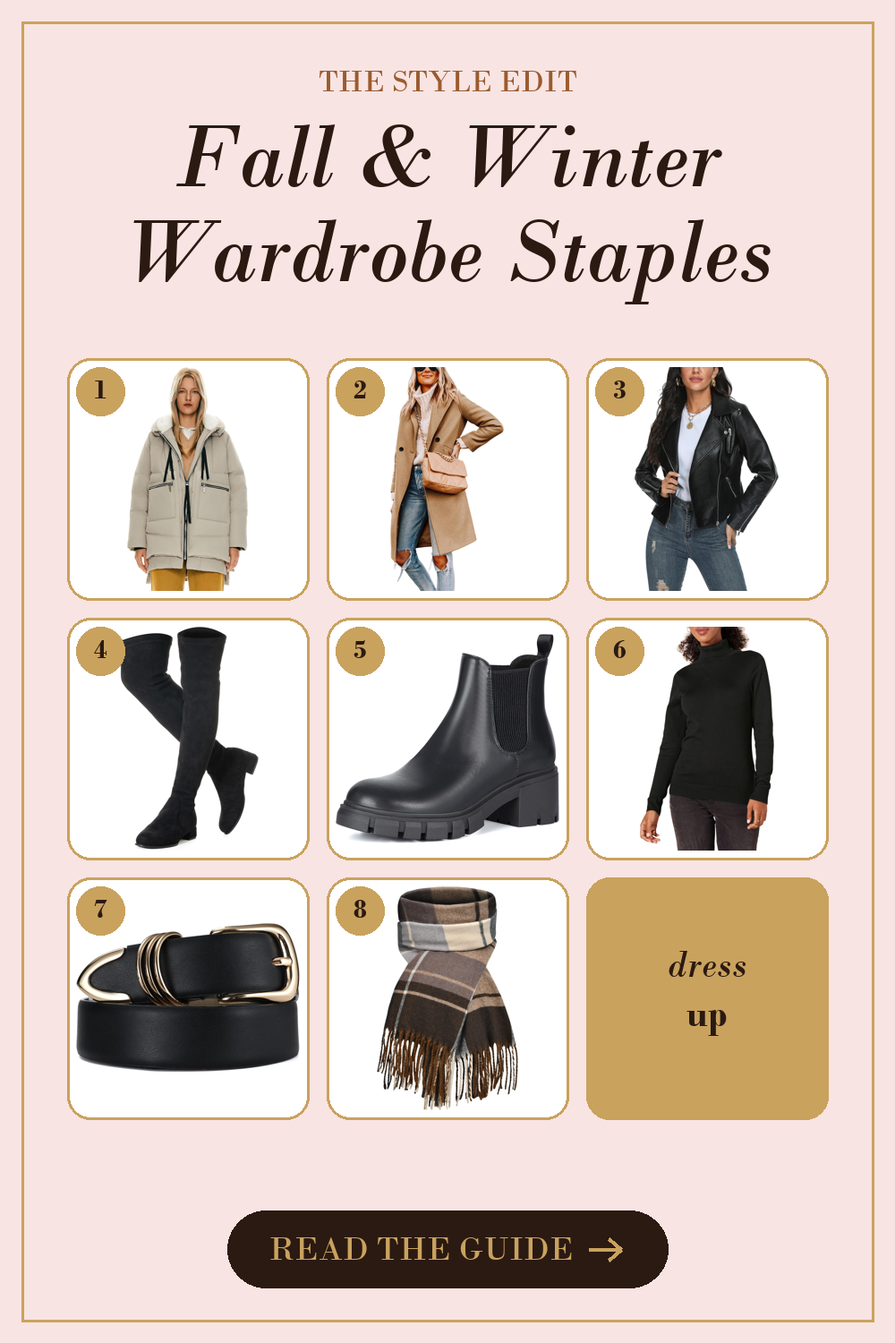
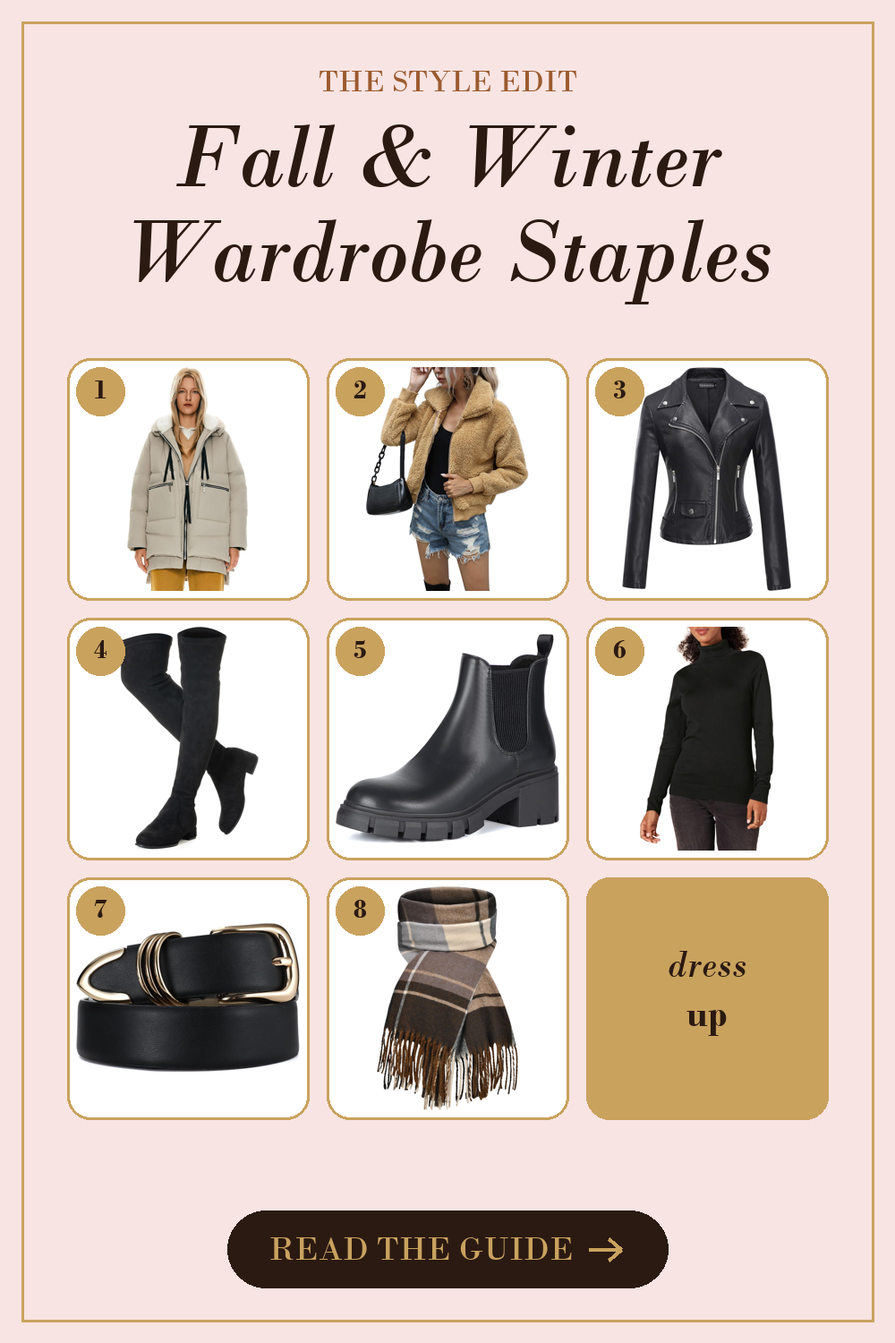
Wardrobe post: match Idea List (shearling jacket, Tanming moto), regenerate pins

Changed region(s): [[0.682, 0.276, 0.899, 0.46], [0.403, 0.276, 0.589, 0.46]]

diff --git a/blog/fall-winter-wardrobe-staples.html b/blog/fall-winter-wardrobe-staples.html
@@ -1,1 +1,1 @@
-<!doctype html><html lang="en"><head><meta name="p:domain_verify" content="d852d5229a38dea863881f54dfc11f45"/><meta charset="utf-8"><meta name="viewport" content="width=device-width,initial-scale=1"><title>Fall &amp; Winter Wardrobe Staples on Amazon: 8 Trend-Right Picks Under $130 | Looks Like Luxe</title><meta name="description" content="Fall and winter 2026 wardrobe staples on Amazon: a puffer, peacoat, faux-leather jacket, boots, a turtleneck, a gold-buckle belt and a plaid scarf. Eight picks rated 4.4 stars or higher."><link rel="canonical" href="https://lookslikeluxe.netlify.app/blog/fall-winter-wardrobe-staples.html"><meta property="og:title" content="Fall &amp; Winter Wardrobe Staples on Amazon: 8 Trend-Right Picks Under $130 | Looks Like Luxe"><meta property="og:description" content="Fall and winter 2026 wardrobe staples on Amazon: a puffer, peacoat, faux-leather jacket, boots, a turtleneck, a gold-buckle belt and a plaid scarf. Eight picks rated 4.4 stars or higher."><meta property="og:type" content="article"><meta property="og:image" content="https://lookslikeluxe.netlify.app/pins/fall-winter-wardrobe-staples-v1-grid.png"><link rel="preconnect" href="https://fonts.googleapis.com"><link rel="preconnect" href="https://fonts.gstatic.com" crossorigin><link href="https://fonts.googleapis.com/css2?family=Cormorant+Garamond:ital,wght@0,400;0,600;1,400&family=Montserrat:wght@500;600&family=Playfair+Display:ital,wght@0,500;1,500&display=swap" rel="stylesheet"><link rel="stylesheet" href="/blog.css"></head><body class="blog"><div class="b-disc">As an Amazon Associate I earn from qualifying purchases.</div><header class="b-nav"><a class="b-brand" href="/">Looks Like <em>Luxe</em></a><nav><a href="/blog/">The Edit</a><a href="/l/gifts-for-her">Gifts</a><a href="/index.html#signup">Free Guide</a></nav></header><section class="b-hero"><div class="b-kicker">The Style Edit</div><h1>Fall and Winter Wardrobe Staples From Amazon That Look Way More Expensive Than They Are</h1><div class="b-rule"></div><div class="b-by">By Looks Like Luxe &nbsp;&middot;&nbsp; October 10, 2026 &nbsp;&middot;&nbsp; 5 min read</div></section><main class="b-wrap"><div class="b-note"><strong>Affiliate disclosure:</strong> As an Amazon Associate I earn from qualifying purchases, which means if you tap a link and buy, I may earn a small commission at no extra cost to you. Prices and availability live on Amazon.</div><div class="b-intro"><p>Every fall, the internet decides which colors are in, which coats you need, and which boots you must own by Thursday. This year the mood is dark romance: burgundy, bottle green, structured coats, a little leather, a lot of texture.</p><p>The runway versions cost the price of a used car. The Amazon versions cost the price of a nice dinner. Same energy, fewer regrets.</p><p>I went through Amazon and built a capsule of eight pieces that hit the season&#x27;s trends: outerwear, boots, one good knit and the accessories that make an outfit look expensive. Every one is rated 4.4 stars or higher with thousands of reviews, though sizing varies, so read the reviews for fit.</p><p>Let&#x27;s get you dressed, darling.</p></div><div class="b-sep">&#9830; &#9830; &#9830;</div><article class="b-prod"><p class="b-num">01</p><h2>Orolay Women&#x27;s Thickened Down Jacket</h2><span class="b-best">Best for: Winter days when being warm matters more than being cute (but you&#x27;ll be both)</span><a class="b-photo" href="https://www.amazon.com/dp/B00HHOXY14?tag=lookslikeluxe-20" target="_blank" rel="sponsored nofollow noopener"><img src="/images/blog/fall-wardrobe/01-orolay-puffer.jpg" alt="Orolay Women&#x27;s Thickened Down Jacket" loading="lazy"></a><p>A thick, warm down jacket that has been a bestseller on Amazon for years, with a hood and a flattering shape.</p><p>It has a 4.5-star rating from nearly 30,000 reviewers, which is a lot of people who stayed warm.</p><p>Verdict: the coat that makes January survivable.</p><a class="b-btn" href="https://www.amazon.com/dp/B00HHOXY14?tag=lookslikeluxe-20" target="_blank" rel="sponsored nofollow noopener">Shop on Amazon</a></article><article class="b-prod"><p class="b-num">02</p><h2>Women&#x27;s Wool Coat Notch Lapel Double-Breasted Peacoat</h2><span class="b-best">Best for: The tailored, old-money look that is everywhere this season</span><a class="b-photo" href="https://www.amazon.com/dp/B0C2KDZCNT?tag=lookslikeluxe-20" target="_blank" rel="sponsored nofollow noopener"><img src="/images/blog/fall-wardrobe/02-wool-peacoat.jpg" alt="Women&#x27;s Wool Coat Notch Lapel Double-Breasted Peacoat" loading="lazy"></a><p>A double-breasted peacoat with a notched lapel, the kind of structured outerwear fashion editors keep calling a must for fall.</p><p>It rates 4.4 stars from more than 4,000 reviewers. Read the reviews on sizing.</p><p>Verdict: instantly makes jeans and a tee look intentional.</p><a class="b-btn" href="https://www.amazon.com/dp/B0C2KDZCNT?tag=lookslikeluxe-20" target="_blank" rel="sponsored nofollow noopener">Shop on Amazon</a></article><article class="b-prod"><p class="b-num">03</p><h2>Women&#x27;s Lapel Faux Leather Moto Jacket</h2><span class="b-best">Best for: Dark romance on a budget</span><a class="b-photo" href="https://www.amazon.com/dp/B08GX5K96F?tag=lookslikeluxe-20" target="_blank" rel="sponsored nofollow noopener"><img src="/images/blog/fall-wardrobe/03-faux-leather-moto.jpg" alt="Women&#x27;s Lapel Faux Leather Moto Jacket" loading="lazy"></a><p>A classic moto jacket in faux leather. Leather and moto details are all over this season&#x27;s trends.</p><p>It has a 4.4-star rating from nearly 5,000 reviewers and comes in several colors.</p><p>Verdict: throw it over a slip dress or a turtleneck and you&#x27;re done.</p><a class="b-btn" href="https://www.amazon.com/dp/B08GX5K96F?tag=lookslikeluxe-20" target="_blank" rel="sponsored nofollow noopener">Shop on Amazon</a></article><div class="b-quote"><p>&ldquo;The season&#x27;s rule: one structured piece, one textured piece, one dark color. Everything else is just styling.&rdquo;</p></div><article class="b-prod"><p class="b-num">04</p><h2>Women&#x27;s Over-the-Knee Suede Block Heel Boots</h2><span class="b-best">Best for: Skirts, dresses and a very good entrance</span><a class="b-photo" href="https://www.amazon.com/dp/B0CGX6PCV5?tag=lookslikeluxe-20" target="_blank" rel="sponsored nofollow noopener"><img src="/images/blog/fall-wardrobe/04-otk-suede-boots.jpg" alt="Women&#x27;s Over-the-Knee Suede Block Heel Boots" loading="lazy"></a><p>Over-the-knee boots with a low block heel and a soft suede look, built for walking, not just posing.</p><p>They rate 4.5 stars from more than 11,000 reviewers, a big number for a boot at this price.</p><p>Verdict: the boot that finishes every fall dress.</p><a class="b-btn" href="https://www.amazon.com/dp/B0CGX6PCV5?tag=lookslikeluxe-20" target="_blank" rel="sponsored nofollow noopener">Shop on Amazon</a></article><article class="b-prod"><p class="b-num">05</p><h2>Women&#x27;s Slip-On Chelsea Ankle Boots</h2><span class="b-best">Best for: Everyday boots that go with literally everything</span><a class="b-photo" href="https://www.amazon.com/dp/B0B2XZKB99?tag=lookslikeluxe-20" target="_blank" rel="sponsored nofollow noopener"><img src="/images/blog/fall-wardrobe/05-chelsea-boots.jpg" alt="Women&#x27;s Slip-On Chelsea Ankle Boots" loading="lazy"></a><p>A slip-on Chelsea boot, the easy, no-laces ankle style that works with jeans, trousers and skirts.</p><p>It has a 4.5-star rating from more than 5,000 reviewers.</p><p>Verdict: the boots you&#x27;ll reach for daily.</p><a class="b-btn" href="https://www.amazon.com/dp/B0B2XZKB99?tag=lookslikeluxe-20" target="_blank" rel="sponsored nofollow noopener">Shop on Amazon</a></article><article class="b-prod"><p class="b-num">06</p><h2>Amazon Essentials Women&#x27;s Long-Sleeve Turtleneck Sweater</h2><span class="b-best">Best for: The base layer under every coat on this list</span><a class="b-photo" href="https://www.amazon.com/dp/B07QGB9B9Z?tag=lookslikeluxe-20" target="_blank" rel="sponsored nofollow noopener"><img src="/images/blog/fall-wardrobe/06-turtleneck.jpg" alt="Amazon Essentials Women&#x27;s Long-Sleeve Turtleneck Sweater" loading="lazy"></a><p>A lightweight, classic-fit turtleneck that layers under blazers, coats and jackets without bulk.</p><p>It rates 4.5 stars from more than 17,000 reviewers and costs about the same as a lunch.</p><p>Verdict: buy two colors. You&#x27;ll wear them all season.</p><a class="b-btn" href="https://www.amazon.com/dp/B07QGB9B9Z?tag=lookslikeluxe-20" target="_blank" rel="sponsored nofollow noopener">Shop on Amazon</a></article><div class="b-quote"><p>&ldquo;Check the size chart on every one of these. Clothing sizes vary a lot, and reviews are your best friend.&rdquo;</p></div><article class="b-prod"><p class="b-num">07</p><h2>Women&#x27;s Leather Belt With Gold Buckle</h2><span class="b-best">Best for: Making a coat or a blazer look styled</span><a class="b-photo" href="https://www.amazon.com/dp/B0C7CHMLW6?tag=lookslikeluxe-20" target="_blank" rel="sponsored nofollow noopener"><img src="/images/blog/fall-wardrobe/07-gold-buckle-belt.jpg" alt="Women&#x27;s Leather Belt With Gold Buckle" loading="lazy"></a><p>A leather belt with a gold buckle, the kind of simple detail that sharpens a long coat or high-waisted trousers.</p><p>It has a 4.6-star rating from nearly 2,500 reviewers.</p><p>Verdict: a small accessory with a big expensive-looking payoff.</p><a class="b-btn" href="https://www.amazon.com/dp/B0C7CHMLW6?tag=lookslikeluxe-20" target="_blank" rel="sponsored nofollow noopener">Shop on Amazon</a></article><article class="b-prod"><p class="b-num">08</p><h2>Oversized Plaid Blanket Scarf</h2><span class="b-best">Best for: Plaid is back, and it costs less than a coffee run</span><a class="b-photo" href="https://www.amazon.com/dp/B0FD2CRP44?tag=lookslikeluxe-20" target="_blank" rel="sponsored nofollow noopener"><img src="/images/blog/fall-wardrobe/08-plaid-scarf.jpg" alt="Oversized Plaid Blanket Scarf" loading="lazy"></a><p>A big, soft plaid blanket scarf that doubles as a wrap on cold days. Checks and tartan are a clear trend this fall.</p><p>It rates 4.7 stars from about 340 reviewers, so it&#x27;s a smaller sample, but a very happy one.</p><p>Verdict: the cheapest way to look like you&#x27;re in a fall editorial.</p><a class="b-btn" href="https://www.amazon.com/dp/B0FD2CRP44?tag=lookslikeluxe-20" target="_blank" rel="sponsored nofollow noopener">Shop on Amazon</a></article><div class="b-sep">&#9830; &#9830; &#9830;</div><div class="b-outro"><p>And that&#x27;s the capsule: eight Amazon pieces that look like they cost far more.</p><p>If you take one thing from this guide, let it be this. A good coat, a good boot and a good belt will carry you through the whole season.</p><p>Until the next wardrobe emergency, darling.</p><div class="b-sign">xx, Looks Like Luxe</div></div><section class="b-signup"><h2>Get The Luxe Gift Vault, free</h2><p>A printable holiday gift planner plus 25 gifts that look like you spent way more, and one fun email a week. Zero spam. Zero sad candles.</p><div class="form"><iframe src="https://api.leadconnectorhq.com/widget/form/gsRUZDDIsJEpAF1ZlzP9" style="width:100%;height:100%;border:none;border-radius:8px" id="inline-gsRUZDDIsJEpAF1ZlzP9" data-layout="{'id':'INLINE'}" data-trigger-type="alwaysShow" data-trigger-value="" data-activation-type="alwaysActivated" data-activation-value="" data-deactivation-type="neverDeactivate" data-deactivation-value="" data-form-name="Gift Guide Signup Form" data-height="434" data-layout-iframe-id="inline-gsRUZDDIsJEpAF1ZlzP9" data-form-id="gsRUZDDIsJEpAF1ZlzP9" data-cookie-consent="true" data-cookie-consent-provider="auto" title="Gift Guide Signup Form"></iframe><script src="https://link.msgsndr.com/js/form_embed.js"></script></div></section><section class="b-related"><h3>Keep reading</h3><a href="/blog/dark-romantic-fall-makeup.html">Dark Romantic Fall Makeup</a><a href="/blog/perfume-layering-combos.html">Perfume Layering Combos</a><a href="/index.html#signup">The Luxe Gift Vault (free)</a></section></main><footer class="b-foot">&copy; Looks Like Luxe &middot; Rich-girl taste, real-girl budget.<br>As an Amazon Associate I earn from qualifying purchases. Prices and availability are shown on Amazon. Product names are trademarks of their owners.<br><a href="/privacy.html">Privacy &amp; disclosure</a></footer></body></html>
+<!doctype html><html lang="en"><head><meta name="p:domain_verify" content="d852d5229a38dea863881f54dfc11f45"/><meta charset="utf-8"><meta name="viewport" content="width=device-width,initial-scale=1"><title>Fall &amp; Winter Wardrobe Staples on Amazon: 8 Trend-Right Picks Under $130 | Looks Like Luxe</title><meta name="description" content="Fall and winter 2026 wardrobe staples on Amazon: a puffer, a faux shearling jacket, a faux-leather jacket, boots, a turtleneck, a gold-buckle belt and a plaid scarf. Eight picks rated 4.3 stars or higher."><link rel="canonical" href="https://lookslikeluxe.netlify.app/blog/fall-winter-wardrobe-staples.html"><meta property="og:title" content="Fall &amp; Winter Wardrobe Staples on Amazon: 8 Trend-Right Picks Under $130 | Looks Like Luxe"><meta property="og:description" content="Fall and winter 2026 wardrobe staples on Amazon: a puffer, a faux shearling jacket, a faux-leather jacket, boots, a turtleneck, a gold-buckle belt and a plaid scarf. Eight picks rated 4.3 stars or higher."><meta property="og:type" content="article"><meta property="og:image" content="https://lookslikeluxe.netlify.app/pins/fall-winter-wardrobe-staples-v1-grid.png"><link rel="preconnect" href="https://fonts.googleapis.com"><link rel="preconnect" href="https://fonts.gstatic.com" crossorigin><link href="https://fonts.googleapis.com/css2?family=Cormorant+Garamond:ital,wght@0,400;0,600;1,400&family=Montserrat:wght@500;600&family=Playfair+Display:ital,wght@0,500;1,500&display=swap" rel="stylesheet"><link rel="stylesheet" href="/blog.css"></head><body class="blog"><div class="b-disc">As an Amazon Associate I earn from qualifying purchases.</div><header class="b-nav"><a class="b-brand" href="/">Looks Like <em>Luxe</em></a><nav><a href="/blog/">The Edit</a><a href="/l/gifts-for-her">Gifts</a><a href="/index.html#signup">Free Guide</a></nav></header><section class="b-hero"><div class="b-kicker">The Style Edit</div><h1>Fall and Winter Wardrobe Staples From Amazon That Look Way More Expensive Than They Are</h1><div class="b-rule"></div><div class="b-by">By Looks Like Luxe &nbsp;&middot;&nbsp; October 10, 2026 &nbsp;&middot;&nbsp; 5 min read</div></section><main class="b-wrap"><div class="b-note"><strong>Affiliate disclosure:</strong> As an Amazon Associate I earn from qualifying purchases, which means if you tap a link and buy, I may earn a small commission at no extra cost to you. Prices and availability live on Amazon.</div><div class="b-intro"><p>Every fall, the internet decides which colors are in, which coats you need, and which boots you must own by Thursday. This year the mood is dark romance: burgundy, bottle green, structured coats, a little leather, a lot of texture.</p><p>The runway versions cost the price of a used car. The Amazon versions cost the price of a nice dinner. Same energy, fewer regrets.</p><p>I went through Amazon and built a capsule of eight pieces that hit the season&#x27;s trends: outerwear, boots, one good knit and the accessories that make an outfit look expensive. Every one is rated 4.3 stars or higher with thousands of reviews, though sizing varies, so read the reviews for fit.</p><p>Let&#x27;s get you dressed, darling.</p></div><div class="b-sep">&#9830; &#9830; &#9830;</div><article class="b-prod"><p class="b-num">01</p><h2>Orolay Women&#x27;s Thickened Down Jacket</h2><span class="b-best">Best for: Winter days when being warm matters more than being cute (but you&#x27;ll be both)</span><a class="b-photo" href="https://www.amazon.com/dp/B00HHOXY14?tag=lookslikeluxe-20" target="_blank" rel="sponsored nofollow noopener"><img src="/images/blog/fall-wardrobe/01-orolay-puffer.jpg" alt="Orolay Women&#x27;s Thickened Down Jacket" loading="lazy"></a><p>A thick, warm down jacket that has been a bestseller on Amazon for years, with a hood and a flattering shape.</p><p>It has a 4.5-star rating from nearly 30,000 reviewers, which is a lot of people who stayed warm.</p><p>Verdict: the coat that makes January survivable.</p><a class="b-btn" href="https://www.amazon.com/dp/B00HHOXY14?tag=lookslikeluxe-20" target="_blank" rel="sponsored nofollow noopener">Shop on Amazon</a></article><article class="b-prod"><p class="b-num">02</p><h2>Women&#x27;s Faux Shearling Teddy Jacket</h2><span class="b-best">Best for: Texture, the season&#x27;s biggest word</span><a class="b-photo" href="https://www.amazon.com/dp/B07WPZ4DTG?tag=lookslikeluxe-20" target="_blank" rel="sponsored nofollow noopener"><img src="/images/blog/fall-wardrobe/02-faux-shearling-jacket.jpg" alt="Women&#x27;s Faux Shearling Teddy Jacket" loading="lazy"></a><p>A fluffy faux shearling jacket with pockets and a zip front. Shearling and fuzzy textures are all over this season&#x27;s trend reports.</p><p>It has a 4.4-star rating from more than 1,400 reviewers, at a price that&#x27;s easy on the wallet.</p><p>Verdict: the cozy, cropped layer that turns jeans and boots into an outfit.</p><a class="b-btn" href="https://www.amazon.com/dp/B07WPZ4DTG?tag=lookslikeluxe-20" target="_blank" rel="sponsored nofollow noopener">Shop on Amazon</a></article><article class="b-prod"><p class="b-num">03</p><h2>Tanming Women&#x27;s Faux Leather Moto Jacket</h2><span class="b-best">Best for: Dark romance on a budget</span><a class="b-photo" href="https://www.amazon.com/dp/B01DXANRTE?tag=lookslikeluxe-20" target="_blank" rel="sponsored nofollow noopener"><img src="/images/blog/fall-wardrobe/03-faux-leather-moto.jpg" alt="Tanming Women&#x27;s Faux Leather Moto Jacket" loading="lazy"></a><p>A classic moto jacket in faux leather. Leather and moto details are all over this season&#x27;s trends.</p><p>It has a 4.3-star rating from more than 10,000 reviewers, a big sample for a jacket at this price. Check the size chart.</p><p>Verdict: throw it over a slip dress or a turtleneck and you&#x27;re done.</p><a class="b-btn" href="https://www.amazon.com/dp/B01DXANRTE?tag=lookslikeluxe-20" target="_blank" rel="sponsored nofollow noopener">Shop on Amazon</a></article><div class="b-quote"><p>&ldquo;The season&#x27;s rule: one structured piece, one textured piece, one dark color. Everything else is just styling.&rdquo;</p></div><article class="b-prod"><p class="b-num">04</p><h2>Women&#x27;s Over-the-Knee Suede Block Heel Boots</h2><span class="b-best">Best for: Skirts, dresses and a very good entrance</span><a class="b-photo" href="https://www.amazon.com/dp/B0CGX6PCV5?tag=lookslikeluxe-20" target="_blank" rel="sponsored nofollow noopener"><img src="/images/blog/fall-wardrobe/04-otk-suede-boots.jpg" alt="Women&#x27;s Over-the-Knee Suede Block Heel Boots" loading="lazy"></a><p>Over-the-knee boots with a low block heel and a soft suede look, built for walking, not just posing.</p><p>They rate 4.5 stars from more than 11,000 reviewers, a big number for a boot at this price.</p><p>Verdict: the boot that finishes every fall dress.</p><a class="b-btn" href="https://www.amazon.com/dp/B0CGX6PCV5?tag=lookslikeluxe-20" target="_blank" rel="sponsored nofollow noopener">Shop on Amazon</a></article><article class="b-prod"><p class="b-num">05</p><h2>Women&#x27;s Slip-On Chelsea Ankle Boots</h2><span class="b-best">Best for: Everyday boots that go with literally everything</span><a class="b-photo" href="https://www.amazon.com/dp/B0B2XZKB99?tag=lookslikeluxe-20" target="_blank" rel="sponsored nofollow noopener"><img src="/images/blog/fall-wardrobe/05-chelsea-boots.jpg" alt="Women&#x27;s Slip-On Chelsea Ankle Boots" loading="lazy"></a><p>A slip-on Chelsea boot, the easy, no-laces ankle style that works with jeans, trousers and skirts.</p><p>It has a 4.5-star rating from more than 5,000 reviewers.</p><p>Verdict: the boots you&#x27;ll reach for daily.</p><a class="b-btn" href="https://www.amazon.com/dp/B0B2XZKB99?tag=lookslikeluxe-20" target="_blank" rel="sponsored nofollow noopener">Shop on Amazon</a></article><article class="b-prod"><p class="b-num">06</p><h2>Amazon Essentials Women&#x27;s Long-Sleeve Turtleneck Sweater</h2><span class="b-best">Best for: The base layer under every coat on this list</span><a class="b-photo" href="https://www.amazon.com/dp/B07QGB9B9Z?tag=lookslikeluxe-20" target="_blank" rel="sponsored nofollow noopener"><img src="/images/blog/fall-wardrobe/06-turtleneck.jpg" alt="Amazon Essentials Women&#x27;s Long-Sleeve Turtleneck Sweater" loading="lazy"></a><p>A lightweight, classic-fit turtleneck that layers under blazers, coats and jackets without bulk.</p><p>It rates 4.5 stars from more than 17,000 reviewers and costs about the same as a lunch.</p><p>Verdict: buy two colors. You&#x27;ll wear them all season.</p><a class="b-btn" href="https://www.amazon.com/dp/B07QGB9B9Z?tag=lookslikeluxe-20" target="_blank" rel="sponsored nofollow noopener">Shop on Amazon</a></article><div class="b-quote"><p>&ldquo;Check the size chart on every one of these. Clothing sizes vary a lot, and reviews are your best friend.&rdquo;</p></div><article class="b-prod"><p class="b-num">07</p><h2>Women&#x27;s Leather Belt With Gold Buckle</h2><span class="b-best">Best for: Making a coat or a blazer look styled</span><a class="b-photo" href="https://www.amazon.com/dp/B0C7CHMLW6?tag=lookslikeluxe-20" target="_blank" rel="sponsored nofollow noopener"><img src="/images/blog/fall-wardrobe/07-gold-buckle-belt.jpg" alt="Women&#x27;s Leather Belt With Gold Buckle" loading="lazy"></a><p>A leather belt with a gold buckle, the kind of simple detail that sharpens a long coat or high-waisted trousers.</p><p>It has a 4.6-star rating from nearly 2,500 reviewers.</p><p>Verdict: a small accessory with a big expensive-looking payoff.</p><a class="b-btn" href="https://www.amazon.com/dp/B0C7CHMLW6?tag=lookslikeluxe-20" target="_blank" rel="sponsored nofollow noopener">Shop on Amazon</a></article><article class="b-prod"><p class="b-num">08</p><h2>Oversized Plaid Blanket Scarf</h2><span class="b-best">Best for: Plaid is back, and it costs less than a coffee run</span><a class="b-photo" href="https://www.amazon.com/dp/B0FD2CRP44?tag=lookslikeluxe-20" target="_blank" rel="sponsored nofollow noopener"><img src="/images/blog/fall-wardrobe/08-plaid-scarf.jpg" alt="Oversized Plaid Blanket Scarf" loading="lazy"></a><p>A big, soft plaid blanket scarf that doubles as a wrap on cold days. Checks and tartan are a clear trend this fall.</p><p>It rates 4.7 stars from about 340 reviewers, so it&#x27;s a smaller sample, but a very happy one.</p><p>Verdict: the cheapest way to look like you&#x27;re in a fall editorial.</p><a class="b-btn" href="https://www.amazon.com/dp/B0FD2CRP44?tag=lookslikeluxe-20" target="_blank" rel="sponsored nofollow noopener">Shop on Amazon</a></article><div class="b-sep">&#9830; &#9830; &#9830;</div><div class="b-outro"><p>And that&#x27;s the capsule: eight Amazon pieces that look like they cost far more.</p><p>If you take one thing from this guide, let it be this. A good coat, a good boot and a good belt will carry you through the whole season.</p><p>Until the next wardrobe emergency, darling.</p><div class="b-sign">xx, Looks Like Luxe</div></div><section class="b-signup"><h2>Get The Luxe Gift Vault, free</h2><p>A printable holiday gift planner plus 25 gifts that look like you spent way more, and one fun email a week. Zero spam. Zero sad candles.</p><div class="form"><iframe src="https://api.leadconnectorhq.com/widget/form/gsRUZDDIsJEpAF1ZlzP9" style="width:100%;height:100%;border:none;border-radius:8px" id="inline-gsRUZDDIsJEpAF1ZlzP9" data-layout="{'id':'INLINE'}" data-trigger-type="alwaysShow" data-trigger-value="" data-activation-type="alwaysActivated" data-activation-value="" data-deactivation-type="neverDeactivate" data-deactivation-value="" data-form-name="Gift Guide Signup Form" data-height="434" data-layout-iframe-id="inline-gsRUZDDIsJEpAF1ZlzP9" data-form-id="gsRUZDDIsJEpAF1ZlzP9" data-cookie-consent="true" data-cookie-consent-provider="auto" title="Gift Guide Signup Form"></iframe><script src="https://link.msgsndr.com/js/form_embed.js"></script></div></section><section class="b-related"><h3>Keep reading</h3><a href="/blog/dark-romantic-fall-makeup.html">Dark Romantic Fall Makeup</a><a href="/blog/perfume-layering-combos.html">Perfume Layering Combos</a><a href="/index.html#signup">The Luxe Gift Vault (free)</a></section></main><footer class="b-foot">&copy; Looks Like Luxe &middot; Rich-girl taste, real-girl budget.<br>As an Amazon Associate I earn from qualifying purchases. Prices and availability are shown on Amazon. Product names are trademarks of their owners.<br><a href="/privacy.html">Privacy &amp; disclosure</a></footer></body></html>

diff --git a/blog/index.html b/blog/index.html
@@ -1,1 +1,1 @@
-<!doctype html><html lang="en"><head><meta name="p:domain_verify" content="d852d5229a38dea863881f54dfc11f45"/><meta charset="utf-8"><meta name="viewport" content="width=device-width,initial-scale=1"><title>The Edit | Looks Like Luxe</title><meta name="description" content="Gift guides, room refreshes and luxe-looking finds, curated with drama and a budget."><link rel="canonical" href="https://lookslikeluxe.netlify.app/blog/"><meta property="og:title" content="The Edit | Looks Like Luxe"><meta property="og:description" content="Gift guides, room refreshes and luxe-looking finds, curated with drama and a budget."><meta property="og:type" content="article"><link rel="preconnect" href="https://fonts.googleapis.com"><link rel="preconnect" href="https://fonts.gstatic.com" crossorigin><link href="https://fonts.googleapis.com/css2?family=Cormorant+Garamond:ital,wght@0,400;0,600;1,400&family=Montserrat:wght@500;600&family=Playfair+Display:ital,wght@0,500;1,500&display=swap" rel="stylesheet"><link rel="stylesheet" href="/blog.css"></head><body class="blog"><div class="b-disc">As an Amazon Associate I earn from qualifying purchases.</div><header class="b-nav"><a class="b-brand" href="/">Looks Like <em>Luxe</em></a><nav><a href="/blog/">The Edit</a><a href="/l/gifts-for-her">Gifts</a><a href="/index.html#signup">Free Guide</a></nav></header><section class="b-hero"><div class="b-kicker">The Edit</div><h1>Looks like luxe. Isn't.</h1><div class="b-rule"></div><div class="b-by">Gift guides, room refreshes, and finds with a flair for the dramatic</div></section><div class="bi-grid"><a class="bi-card" href="/blog/amazon-christmas-decor.html"><div class="im"><img src="/images/blog/christmas-decor/01-tree.jpg" alt="Amazon Christmas Decor" loading="lazy"></div><div class="tx"><div class="k">The Holiday Edit</div><h2>Amazon Christmas Decor That Looks Designer (Burgundy, Gold and Zero Regrets)</h2><p>Amazon Christmas decor that looks designer: a pre-lit tree, nutcrackers, gold mercury ornaments, velvet bows and more. Eight festive finds with great reviews.</p></div></a><a class="bi-card" href="/blog/clean-girl-gift-guide.html"><div class="im"><img src="/images/blog/clean-girl/01-revlon.jpg" alt="Clean Girl Gift Guide" loading="lazy"></div><div class="tx"><div class="k">The Gift Edit</div><h2>The Clean Girl Gift Guide (For the Girl Who Wakes Up Like This)</h2><p>A clean girl gift guide for the glowy, gold-hoop, matcha-sipping girl on your list: skincare, lip mask, hair oil, and the finishing touches. Aesthetic, giftable, and chic.</p></div></a><a class="bi-card" href="/blog/dark-romantic-fall-makeup.html"><div class="im"><img src="/images/blog/fall-makeup/01-rare-beauty-blush.jpg" alt="Dark Romantic Fall Makeup" loading="lazy"></div><div class="tx"><div class="k">The Beauty Edit</div><h2>Dark Romantic Fall Makeup: Cream Blush, Berry Lips and a Little Drama</h2><p>Dark romantic makeup for fall 2026: cream blush, moody lips, a long-wear setting spray and black nail polish, all on Amazon with 4.4+ star ratings.</p></div></a><a class="bi-card" href="/blog/fall-winter-wardrobe-staples.html"><div class="im"><img src="/images/blog/fall-wardrobe/01-orolay-puffer.jpg" alt="Fall and Winter Wardrobe Staples" loading="lazy"></div><div class="tx"><div class="k">The Style Edit</div><h2>Fall and Winter Wardrobe Staples From Amazon That Look Way More Expensive Than They Are</h2><p>Fall and winter 2026 wardrobe staples on Amazon: a puffer, peacoat, faux-leather jacket, boots, a turtleneck, a gold-buckle belt and a plaid scarf. Eight picks rated 4.4 stars or higher.</p></div></a><a class="bi-card" href="/blog/gifts-for-5-year-old-girls.html"><div class="im"><img src="/images/blog/gifts-5yo/01-mixies.jpg" alt="Gifts for 5-Year-Old Girls" loading="lazy"></div><div class="tx"><div class="k">The Gift Edit</div><h2>Gifts for 5-Year-Old Girls: Wait, They Make THIS?!</h2><p>Gifts for 5-year-old girls that make even grown women say &#x27;wait, they make this?!&#x27; Eight unusual, show-stopping ideas, ranked with sarcasm and zero crayons.</p></div></a><a class="bi-card" href="/blog/gifts-for-8-10-year-old-girls.html"><div class="im"><img src="/images/blog/gifts-8-10/01-american-girl.jpg" alt="Gifts for 8-10 Year Old Girls" loading="lazy"></div><div class="tx"><div class="k">The Gift Edit</div><h2>Gifts for 8-10 Year Old Girls (She Is Not a Baby, Thank You)</h2><p>Gifts for 8 to 10 year old girls that are anything but babyish: an instant camera, a Tamagotchi, a Stanley, a doll with a whole personality, and more.</p></div></a><a class="bi-card" href="/blog/gifts-for-mom.html"><div class="im"><img src="/images/blog/gifts-mom/01-revlon.jpg" alt="Christmas Gifts for Mom" loading="lazy"></div><div class="tx"><div class="k">The Gift Edit</div><h2>Christmas Gifts for Mom (She Said &quot;Don&#x27;t Get Me Anything.&quot; She Lied.)</h2><p>Amazon Christmas gifts for mom that go way beyond a candle: a hair styler she&#x27;ll use daily, a digital frame, a smart herb garden, a Ninja Creami and more. Eight picks with great reviews.</p></div></a><a class="bi-card" href="/blog/gifts-for-women-in-their-20s.html"><div class="im"><img src="/images/blog/gifts-20s/01-barefoot-dreams.jpg" alt="Gifts for Women in Their 20s" loading="lazy"></div><div class="tx"><div class="k">The Gift Edit</div><h2>Gifts for Women in Their 20s (Who Say &quot;I Don&#x27;t Need Anything&quot; and Absolutely Do)</h2><p>Gifts for women in their 20s that feel like a treat: a cloud-soft throw, an instant camera, a sunrise alarm, a Kindle, and more. Chic, useful, and not another candle.</p></div></a><a class="bi-card" href="/blog/hair-scalp-care.html"><div class="im"><img src="/images/blog/hair-scalp/06-heeta-scalp-massager.jpg" alt="Best Hair Care Products on Amazon" loading="lazy"></div><div class="tx"><div class="k">The Beauty Edit</div><h2>Best Hair Care Products on Amazon: Scalp Care, Shine and Repair</h2><p>The best hair care products on Amazon for fall 2026: scalp massagers, shine oils, bond repair and a blowout tool, all rated 4.5 stars or higher.</p></div></a><a class="bi-card" href="/blog/host-hostess-gifts.html"><div class="im"><img src="/images/blog/host-hostess/01-bartender-kit.jpg" alt="Host &amp; Hostess Gifts" loading="lazy"></div><div class="tx"><div class="k">The Gift Edit</div><h2>Host &amp; Hostess Gifts (Because Wine Is Not a Personality, Darling)</h2><p>Host and hostess gifts that go way beyond a bottle of wine: a champagne saber, a cocktail smoker, a truffle oil duo, a bitters trio and more. Elegant, giftable and not another candle.</p></div></a><a class="bi-card" href="/blog/perfume-layering-combos.html"><div class="im"><img src="/images/blog/perfume-layering/01-ariana-cloud.jpg" alt="Perfume Layering Combos" loading="lazy"></div><div class="tx"><div class="k">The Beauty Edit</div><h2>Perfume Layering Combos: 8 Scents That Smell Expensive Together (Yes, You Can Mix Them)</h2><p>Perfume layering combos for fall: warm vanilla, gourmand and floral scents from Amazon, plus a body cream and mist to stack them on. Eight picks with 4.4+ star ratings.</p></div></a><a class="bi-card" href="/blog/teacher-gifts.html"><div class="im"><img src="/images/blog/gifts-teacher/01-yeti.jpg" alt="Teacher Gifts" loading="lazy"></div><div class="tx"><div class="k">The Gift Edit</div><h2>Teacher Gifts That Aren&#x27;t Mugs (Because She Has Fourteen)</h2><p>Teacher gifts that aren&#x27;t mugs: a YETI tumbler, UGG slippers, a Kindle, a spa basket and more. Eight Christmas teacher gift ideas she&#x27;ll actually use, all with great reviews.</p></div></a></div><footer class="b-foot">&copy; Looks Like Luxe &middot; Rich-girl taste, real-girl budget.<br>As an Amazon Associate I earn from qualifying purchases. Prices and availability are shown on Amazon. Product names are trademarks of their owners.<br><a href="/privacy.html">Privacy &amp; disclosure</a></footer></body></html>
+<!doctype html><html lang="en"><head><meta name="p:domain_verify" content="d852d5229a38dea863881f54dfc11f45"/><meta charset="utf-8"><meta name="viewport" content="width=device-width,initial-scale=1"><title>The Edit | Looks Like Luxe</title><meta name="description" content="Gift guides, room refreshes and luxe-looking finds, curated with drama and a budget."><link rel="canonical" href="https://lookslikeluxe.netlify.app/blog/"><meta property="og:title" content="The Edit | Looks Like Luxe"><meta property="og:description" content="Gift guides, room refreshes and luxe-looking finds, curated with drama and a budget."><meta property="og:type" content="article"><link rel="preconnect" href="https://fonts.googleapis.com"><link rel="preconnect" href="https://fonts.gstatic.com" crossorigin><link href="https://fonts.googleapis.com/css2?family=Cormorant+Garamond:ital,wght@0,400;0,600;1,400&family=Montserrat:wght@500;600&family=Playfair+Display:ital,wght@0,500;1,500&display=swap" rel="stylesheet"><link rel="stylesheet" href="/blog.css"></head><body class="blog"><div class="b-disc">As an Amazon Associate I earn from qualifying purchases.</div><header class="b-nav"><a class="b-brand" href="/">Looks Like <em>Luxe</em></a><nav><a href="/blog/">The Edit</a><a href="/l/gifts-for-her">Gifts</a><a href="/index.html#signup">Free Guide</a></nav></header><section class="b-hero"><div class="b-kicker">The Edit</div><h1>Looks like luxe. Isn't.</h1><div class="b-rule"></div><div class="b-by">Gift guides, room refreshes, and finds with a flair for the dramatic</div></section><div class="bi-grid"><a class="bi-card" href="/blog/amazon-christmas-decor.html"><div class="im"><img src="/images/blog/christmas-decor/01-tree.jpg" alt="Amazon Christmas Decor" loading="lazy"></div><div class="tx"><div class="k">The Holiday Edit</div><h2>Amazon Christmas Decor That Looks Designer (Burgundy, Gold and Zero Regrets)</h2><p>Amazon Christmas decor that looks designer: a pre-lit tree, nutcrackers, gold mercury ornaments, velvet bows and more. Eight festive finds with great reviews.</p></div></a><a class="bi-card" href="/blog/clean-girl-gift-guide.html"><div class="im"><img src="/images/blog/clean-girl/01-revlon.jpg" alt="Clean Girl Gift Guide" loading="lazy"></div><div class="tx"><div class="k">The Gift Edit</div><h2>The Clean Girl Gift Guide (For the Girl Who Wakes Up Like This)</h2><p>A clean girl gift guide for the glowy, gold-hoop, matcha-sipping girl on your list: skincare, lip mask, hair oil, and the finishing touches. Aesthetic, giftable, and chic.</p></div></a><a class="bi-card" href="/blog/dark-romantic-fall-makeup.html"><div class="im"><img src="/images/blog/fall-makeup/01-rare-beauty-blush.jpg" alt="Dark Romantic Fall Makeup" loading="lazy"></div><div class="tx"><div class="k">The Beauty Edit</div><h2>Dark Romantic Fall Makeup: Cream Blush, Berry Lips and a Little Drama</h2><p>Dark romantic makeup for fall 2026: cream blush, moody lips, a long-wear setting spray and black nail polish, all on Amazon with 4.4+ star ratings.</p></div></a><a class="bi-card" href="/blog/fall-winter-wardrobe-staples.html"><div class="im"><img src="/images/blog/fall-wardrobe/01-orolay-puffer.jpg" alt="Fall and Winter Wardrobe Staples" loading="lazy"></div><div class="tx"><div class="k">The Style Edit</div><h2>Fall and Winter Wardrobe Staples From Amazon That Look Way More Expensive Than They Are</h2><p>Fall and winter 2026 wardrobe staples on Amazon: a puffer, a faux shearling jacket, a faux-leather jacket, boots, a turtleneck, a gold-buckle belt and a plaid scarf. Eight picks rated 4.3 stars or higher.</p></div></a><a class="bi-card" href="/blog/gifts-for-5-year-old-girls.html"><div class="im"><img src="/images/blog/gifts-5yo/01-mixies.jpg" alt="Gifts for 5-Year-Old Girls" loading="lazy"></div><div class="tx"><div class="k">The Gift Edit</div><h2>Gifts for 5-Year-Old Girls: Wait, They Make THIS?!</h2><p>Gifts for 5-year-old girls that make even grown women say &#x27;wait, they make this?!&#x27; Eight unusual, show-stopping ideas, ranked with sarcasm and zero crayons.</p></div></a><a class="bi-card" href="/blog/gifts-for-8-10-year-old-girls.html"><div class="im"><img src="/images/blog/gifts-8-10/01-american-girl.jpg" alt="Gifts for 8-10 Year Old Girls" loading="lazy"></div><div class="tx"><div class="k">The Gift Edit</div><h2>Gifts for 8-10 Year Old Girls (She Is Not a Baby, Thank You)</h2><p>Gifts for 8 to 10 year old girls that are anything but babyish: an instant camera, a Tamagotchi, a Stanley, a doll with a whole personality, and more.</p></div></a><a class="bi-card" href="/blog/gifts-for-mom.html"><div class="im"><img src="/images/blog/gifts-mom/01-revlon.jpg" alt="Christmas Gifts for Mom" loading="lazy"></div><div class="tx"><div class="k">The Gift Edit</div><h2>Christmas Gifts for Mom (She Said &quot;Don&#x27;t Get Me Anything.&quot; She Lied.)</h2><p>Amazon Christmas gifts for mom that go way beyond a candle: a hair styler she&#x27;ll use daily, a digital frame, a smart herb garden, a Ninja Creami and more. Eight picks with great reviews.</p></div></a><a class="bi-card" href="/blog/gifts-for-women-in-their-20s.html"><div class="im"><img src="/images/blog/gifts-20s/01-barefoot-dreams.jpg" alt="Gifts for Women in Their 20s" loading="lazy"></div><div class="tx"><div class="k">The Gift Edit</div><h2>Gifts for Women in Their 20s (Who Say &quot;I Don&#x27;t Need Anything&quot; and Absolutely Do)</h2><p>Gifts for women in their 20s that feel like a treat: a cloud-soft throw, an instant camera, a sunrise alarm, a Kindle, and more. Chic, useful, and not another candle.</p></div></a><a class="bi-card" href="/blog/hair-scalp-care.html"><div class="im"><img src="/images/blog/hair-scalp/06-heeta-scalp-massager.jpg" alt="Best Hair Care Products on Amazon" loading="lazy"></div><div class="tx"><div class="k">The Beauty Edit</div><h2>Best Hair Care Products on Amazon: Scalp Care, Shine and Repair</h2><p>The best hair care products on Amazon for fall 2026: scalp massagers, shine oils, bond repair and a blowout tool, all rated 4.5 stars or higher.</p></div></a><a class="bi-card" href="/blog/host-hostess-gifts.html"><div class="im"><img src="/images/blog/host-hostess/01-bartender-kit.jpg" alt="Host &amp; Hostess Gifts" loading="lazy"></div><div class="tx"><div class="k">The Gift Edit</div><h2>Host &amp; Hostess Gifts (Because Wine Is Not a Personality, Darling)</h2><p>Host and hostess gifts that go way beyond a bottle of wine: a champagne saber, a cocktail smoker, a truffle oil duo, a bitters trio and more. Elegant, giftable and not another candle.</p></div></a><a class="bi-card" href="/blog/perfume-layering-combos.html"><div class="im"><img src="/images/blog/perfume-layering/01-ariana-cloud.jpg" alt="Perfume Layering Combos" loading="lazy"></div><div class="tx"><div class="k">The Beauty Edit</div><h2>Perfume Layering Combos: 8 Scents That Smell Expensive Together (Yes, You Can Mix Them)</h2><p>Perfume layering combos for fall: warm vanilla, gourmand and floral scents from Amazon, plus a body cream and mist to stack them on. Eight picks with 4.4+ star ratings.</p></div></a><a class="bi-card" href="/blog/teacher-gifts.html"><div class="im"><img src="/images/blog/gifts-teacher/01-yeti.jpg" alt="Teacher Gifts" loading="lazy"></div><div class="tx"><div class="k">The Gift Edit</div><h2>Teacher Gifts That Aren&#x27;t Mugs (Because She Has Fourteen)</h2><p>Teacher gifts that aren&#x27;t mugs: a YETI tumbler, UGG slippers, a Kindle, a spa basket and more. Eight Christmas teacher gift ideas she&#x27;ll actually use, all with great reviews.</p></div></a></div><footer class="b-foot">&copy; Looks Like Luxe &middot; Rich-girl taste, real-girl budget.<br>As an Amazon Associate I earn from qualifying purchases. Prices and availability are shown on Amazon. Product names are trademarks of their owners.<br><a href="/privacy.html">Privacy &amp; disclosure</a></footer></body></html>
